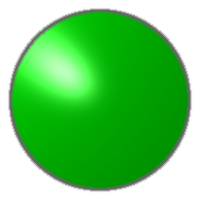
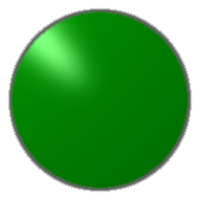
Added yellow, added on/off colors for all but grey

diff --git a/tk_tools/visual.py b/tk_tools/visual.py
@@ -259,29 +259,37 @@ class Led(tk.Frame):
 
         self.canvas = tk.Canvas(self, width=self.size, height=self.size)
         self.canvas.grid(row=0)
+        self.image = None
 
         self.to_grey()
 
+    def _load_new(self, img_path):
+        this_path = os.path.abspath(os.path.dirname(__file__))
+        img_path = os.path.join(this_path, img_path)
+        self.image = tk.PhotoImage(file=img_path)
+        self.image = self.image.subsample(int(200 / self.size), int(200 / self.size))
+        self.canvas.create_image(0, 0, image=self.image, anchor='nw')
+
     def to_grey(self):
-        this_path = os.path.abspath(os.path.dirname(__file__))
-        img_path = os.path.join(this_path, 'img/led-grey.png')
-        self.image = tk.PhotoImage(file=img_path)
-        self.image = self.image.subsample(int(200 / self.size), int(200 / self.size))
-        self.canvas.create_image(0, 0, image=self.image, anchor='nw')
+        self._load_new('img/led-grey.png')
 
-    def to_green(self):
-        this_path = os.path.abspath(os.path.dirname(__file__))
-        img_path = os.path.join(this_path, 'img/led-green.png')
-        self.image = tk.PhotoImage(file=img_path)
-        self.image = self.image.subsample(int(200 / self.size), int(200 / self.size))
-        self.canvas.create_image(0, 0, image=self.image, anchor='nw')
+    def to_green(self, on=False):
+        if on:
+            self._load_new('img/led-green-on.png')
+        else:
+            self._load_new('img/led-green.png')
 
-    def to_red(self):
-        this_path = os.path.abspath(os.path.dirname(__file__))
-        img_path = os.path.join(this_path, 'img/led-red.png')
-        self.image = tk.PhotoImage(file=img_path)
-        self.image = self.image.subsample(int(200 / self.size), int(200 / self.size))
-        self.canvas.create_image(0, 0, image=self.image, anchor='nw')
+    def to_red(self, on=False):
+        if on:
+            self._load_new('img/led-red-on.png')
+        else:
+            self._load_new('img/led-red.png')
+
+    def to_yellow(self, on=False):
+        if on:
+            self._load_new('img/led-yellow-on.png')
+        else:
+            self._load_new('img/led-yellow.png')
 
 if __name__ == '__main__':
     root = tk.Tk()

diff --git a/examples/leds.py b/examples/leds.py
@@ -1,15 +1,17 @@
 import tkinter as tk
 import tk_tools
 
-import time
-
 root = tk.Tk()
 
 led = tk_tools.Led(root, size=50)
 led.pack()
 
-btn_red = tk.Button(root, text='red', command=led.to_red).pack(fill=tk.X)
-btn_green = tk.Button(root, text='green', command=led.to_green).pack(fill=tk.X)
-btn_grey = tk.Button(root, text='grey', command=led.to_grey).pack(fill=tk.X)
+tk.Button(root, text='red', command=led.to_red).pack(fill=tk.X)
+tk.Button(root, text='red on', command=lambda: led.to_red(True)).pack(fill=tk.X)
+tk.Button(root, text='green', command=led.to_green).pack(fill=tk.X)
+tk.Button(root, text='green on', command=lambda: led.to_green(True)).pack(fill=tk.X)
+tk.Button(root, text='green', command=led.to_yellow).pack(fill=tk.X)
+tk.Button(root, text='green on', command=lambda: led.to_yellow(True)).pack(fill=tk.X)
+tk.Button(root, text='grey', command=led.to_grey).pack(fill=tk.X)
 
 root.mainloop()

diff --git a/tk_tools/version.py b/tk_tools/version.py
@@ -1,1 +1,1 @@
-__version__ = '0.2.3'
+__version__ = '0.2.4'
